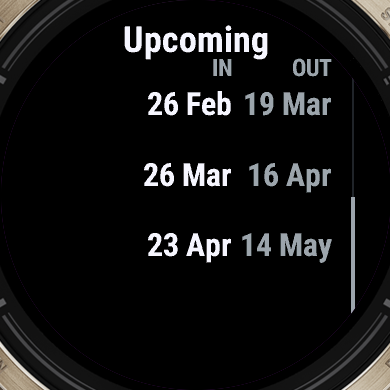
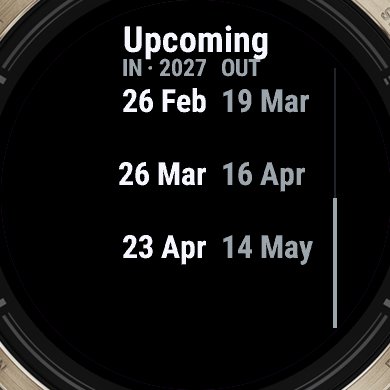
Fix round 2 list layouts

Changed region(s): [[0.3077, 0.1538, 0.8615, 0.8308], [0.8923, 0.2154, 0.9231, 0.8]]

diff --git a/docs/IMPLEMENTATION.md b/docs/IMPLEMENTATION.md
@@ -109,7 +109,7 @@ env -i HOME=$HOME PATH=/usr/bin:/bin bash -lc \
 ./scripts/ci/check-release.sh bin/release
 ```
 
-All compiler invocations use warnings-as-errors. The v1.3.0 suite contains 160
+All compiler invocations use warnings-as-errors. The v1.3.0 suite contains 164
 tests. It covers schedule boundaries, DST gaps/folds, actual-event anchoring,
 temporary-out identity, reminder priority/deduplication, migrations, storage
 interruption and compaction, settings repair, phone/watch picker conversion,
@@ -225,6 +225,11 @@ Two contract tensions are intentional and documented:
 No other item in `docs/ux-review/DECISIONS.md` remains unimplemented. Native
 menus may reveal a deliberately partial adjacent row at the round bezel while
 scrolling; the selected row and every custom-rendered value remain unclipped.
+
+The round-2 list pass keeps Upcoming on fixed 78 px row pitches with shared
+column anchors, a proportional elapsed/overdue track, chord-safe rails, and the
+rollover year in the column header. History uses full-width selection bands and
+`NOW`; cycle detail compacts its populated rows, dates, and brief-out count.
 
 ## Release bundle
 
